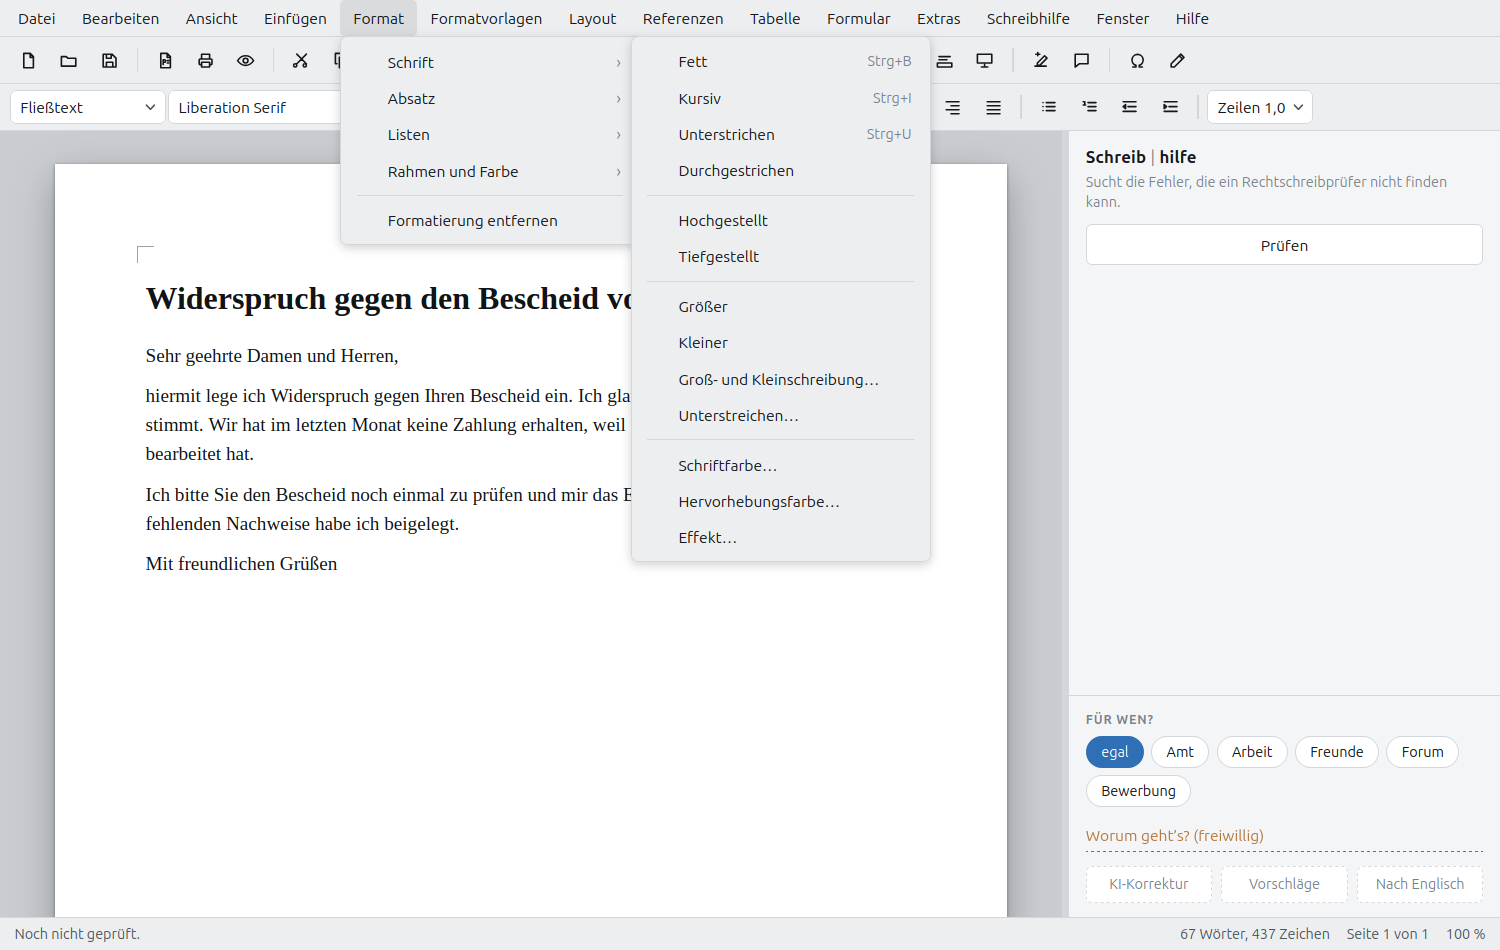
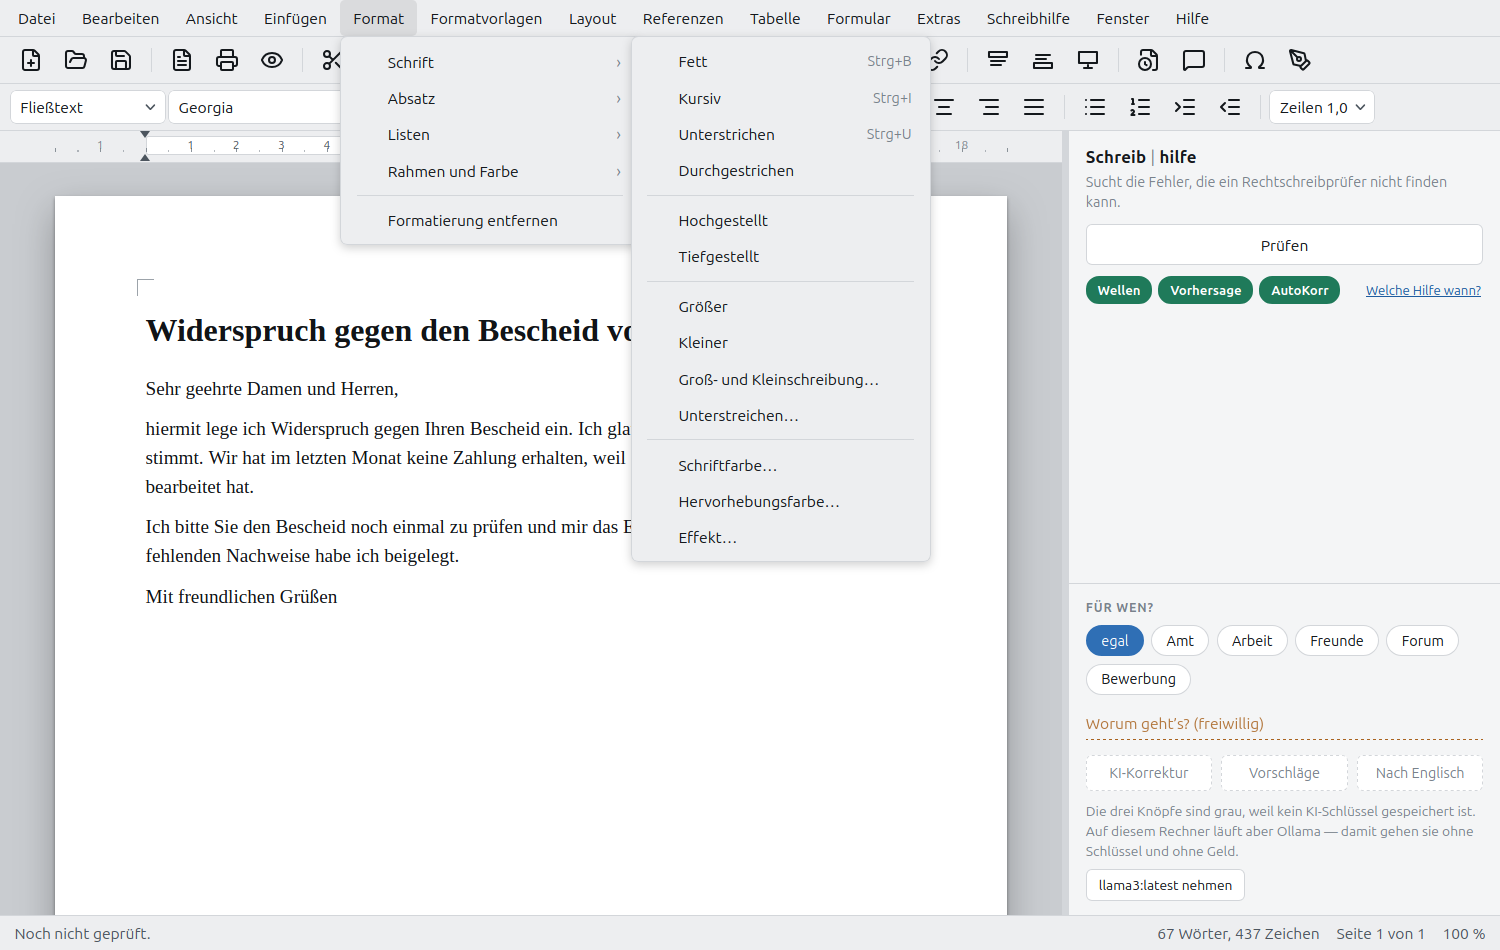
Die Bildschirmfotos zeigen wieder, was da ist
Sechs Bilder waren vom Stand vor dem Umbau: alte Symbole, kein Lineal,
das duenne Register. Alle neu aufgenommen, mit demselben Brief wie vorher,
damit nur die Oberflaeche sich unterscheidet. Dazu zwei neue - das
Register und das Druckfenster.

Aufgenommen hat sie werkzeug/bildschirmfoto.py: WebKit in einem Fenster,
das nicht auf dem Schirm erscheint. Also dieselbe Maschine, auf der das
Programm laeuft, und nicht ein anderer Browser, der Schriften und
Abstaende anders setzt. Damit ist es wiederholbar, wenn sich wieder etwas
aendert.

Beim Nachsehen fiel noch ein Rundungsfehler auf: Die Statuszeile sagte
"Seite 1 von 2" bei einem einseitigen Brief. Die Schaetzung rechnete mit
fest eingetragenen 29,7 cm minus 2 cm Rand - das galt fuer A4 mit
Standardraendern und log auf allem anderen. Jetzt wird mit dem wirklichen
Blatt gerechnet, und ein Text, der eine Seite genau fuellt, ist eine Seite.

diff --git a/oberflaeche/js/programm.js b/oberflaeche/js/programm.js
@@ -9391,10 +9391,18 @@ function zahlenAuffrischen() {
   const { zeichen: z, woerter } = Dokument.zaehle();
   $('status-zahl').textContent = woerter + (woerter === 1 ? ' Wort, ' : ' Wörter, ')
                                + z + (z === 1 ? ' Zeichen' : ' Zeichen');
-  /* Wie viele Seiten das sind: die Texthöhe geteilt durch das, was auf eine
-     A4-Seite passt (29,7 cm minus 2 cm Rand oben und unten). */
-  const proSeite = 25.7 * CM;
-  const seiten = Math.max(1, Math.ceil(feld.scrollHeight / proSeite));
+  /* Wie viele Seiten das sind. Hier stand einmal fest „29,7 cm minus 2 cm
+     Rand" — das galt für A4 mit den Standardrändern und log auf allem
+     anderen. Jetzt wird mit dem wirklichen Blatt gerechnet.
+
+     Und mit zwei Bildpunkten Nachsicht: Ein Text, der eine Seite genau
+     füllt, ist eine Seite. Ohne das machte ein einziger Punkt Rundung aus
+     einem einseitigen Brief zwei — in der Statuszeile stand „Seite 1 von
+     2", während nur ein Blatt da war. */
+  const masse = PAPIERE[papier] || PAPIERE.a4;
+  const hoeheMm = (quer ? masse.breite : masse.hoehe) - seitenrand.oben - seitenrand.unten;
+  const proSeite = Math.max(1, hoeheMm * CM / 10);
+  const seiten = Math.max(1, Math.ceil((feld.scrollHeight - 2) / proSeite));
   $('status-seiten').textContent = 'Seite 1 von ' + seiten;
 }
 

diff --git a/werkzeug/bildschirmfoto.py b/werkzeug/bildschirmfoto.py
@@ -1,0 +1,102 @@
+#!/usr/bin/env python3
+"""Nimmt ein Bildschirmfoto der Oberfläche auf — ohne Fenster auf dem Schirm.
+
+    python3 werkzeug/bildschirmfoto.py --ziel bilder/uebersicht.png \
+        --adresse http://localhost:8750/index.html \
+        --js "…was vorher zu tun ist…"
+
+Gerendert wird mit WebKit, also mit derselben Maschine, auf der das
+Programm läuft — nicht mit einem anderen Browser, der Schriften und
+Abstände anders setzt. Das Fenster ist eine Gtk.OffscreenWindow: Es wird
+gezeichnet, aber niemand sieht es, und wer am Rechner sitzt, wird nicht
+gestört.
+
+Der Ablauf: Seite laden, warten, JavaScript ausführen, noch einmal warten,
+Foto machen. Die zweite Wartezeit ist nötig, weil ein Klick im Programm
+oft etwas anstößt, das erst im nächsten Bild fertig ist.
+"""
+import argparse
+import sys
+
+import gi
+
+gi.require_version("Gtk", "3.0")
+gi.require_version("WebKit2", "4.1")
+from gi.repository import GLib, Gtk, WebKit2                # noqa: E402
+
+
+def foto_machen(adresse, ziel, js, breite, hoehe, warten, nachwarten):
+    stand = {"fehler": None}
+
+    fenster = Gtk.OffscreenWindow()
+    fenster.set_default_size(breite, hoehe)
+    ansicht = WebKit2.WebView()
+    ansicht.set_size_request(breite, hoehe)
+    fenster.add(ansicht)
+    fenster.show_all()
+
+    def speichern(_ansicht, ergebnis):
+        try:
+            flaeche = ansicht.get_snapshot_finish(ergebnis)
+            flaeche.write_to_png(ziel)
+        except Exception as grund:                          # noqa: BLE001
+            stand["fehler"] = str(grund)
+        Gtk.main_quit()
+
+    def schiessen():
+        ansicht.get_snapshot(WebKit2.SnapshotRegion.VISIBLE,
+                             WebKit2.SnapshotOptions.NONE, None, speichern)
+        return False
+
+    def nach_dem_js(_ansicht, _ergebnis):
+        GLib.timeout_add(nachwarten, schiessen)
+
+    def wenn_geladen():
+        if js:
+            try:
+                ansicht.run_javascript(js, None, nach_dem_js)
+            except Exception as grund:                      # noqa: BLE001
+                stand["fehler"] = str(grund)
+                Gtk.main_quit()
+        else:
+            schiessen()
+        return False
+
+    def geladen(_ansicht, ereignis):
+        if ereignis == WebKit2.LoadEvent.FINISHED:
+            GLib.timeout_add(warten, wenn_geladen)
+
+    ansicht.connect("load-changed", geladen)
+    ansicht.load_uri(adresse)
+
+    # Nicht ewig warten, falls die Seite nie fertig wird.
+    GLib.timeout_add(30000, lambda: (Gtk.main_quit(), False)[1])
+    Gtk.main()
+    return stand["fehler"]
+
+
+def main():
+    zettel = argparse.ArgumentParser(description=__doc__,
+                                     formatter_class=argparse.RawDescriptionHelpFormatter)
+    zettel.add_argument("--adresse", required=True)
+    zettel.add_argument("--ziel", required=True)
+    zettel.add_argument("--js", default="")
+    zettel.add_argument("--breite", type=int, default=1500)
+    zettel.add_argument("--hoehe", type=int, default=950)
+    zettel.add_argument("--warten", type=int, default=1200,
+                        help="Millisekunden nach dem Laden, vor dem JavaScript")
+    zettel.add_argument("--nachwarten", type=int, default=700,
+                        help="Millisekunden nach dem JavaScript, vor dem Foto")
+    wahl = zettel.parse_args()
+
+    fehler = foto_machen(wahl.adresse, wahl.ziel, wahl.js,
+                         wahl.breite, wahl.hoehe, wahl.warten, wahl.nachwarten)
+    if fehler:
+        print("Ging nicht: %s" % fehler, file=sys.stderr)
+        return 1
+    print("%s geschrieben." % wahl.ziel)
+    return 0
+
+
+if __name__ == "__main__":
+    sys.exit(main())

diff --git a/README.md b/README.md
@@ -210,6 +210,17 @@ Fließtext, darunter alles, was auf dem Rechner liegt.
 
 ![Die Schriftliste mit Suchfeld; jeder Name ist in seiner eigenen Schrift gesetzt](bilder/schriften.png)
 
+Wer die Reiter aus Word gewohnt ist, stellt unter *Ansicht ▸
+Benutzeroberfläche* um. Über dem Blatt liegt das Lineal mit den
+Einzugsmarken.
+
+![Das Register mit dem Reiter Start: Zwischenablage, Schriftart, Absatz und Formatvorlagen, darüber die Reiterzeile, darunter das Lineal](bilder/register.png)
+
+Gedruckt wird, was die Vorschau zeigt: links das Blatt, rechts die
+Einstellungen in drei Reitern.
+
+![Das Druckfenster: links die Seitenvorschau mit dem Brief, rechts Bereich, Kopien, Blattseiten und Seitenlayout](bilder/drucken.png)
+
 Hell oder dunkel, je nachdem, was den Augen bekommt. Das Blatt bleibt weiß —
 Papier ist weiß.
 
@@ -315,6 +326,7 @@ deshalb wie der übrige Code unter MIT.
       symbole.html       den Symbolkatalog durchsehen, im Browser öffnen
       katalog-bauen.py   baut den Katalog aus einem Ordner voller .svg neu
       svg-zu-pfad.py     rechnet <circle>, <rect>, <line> in einen Pfad um
+      bildschirmfoto.py  nimmt die Bilder für dieses README auf
 
     doku/                ENTSTEHUNG, RICHTUNG und das ausführliche LIESMICH
     symbole/             das Symbol als SVG und in allen Größen
